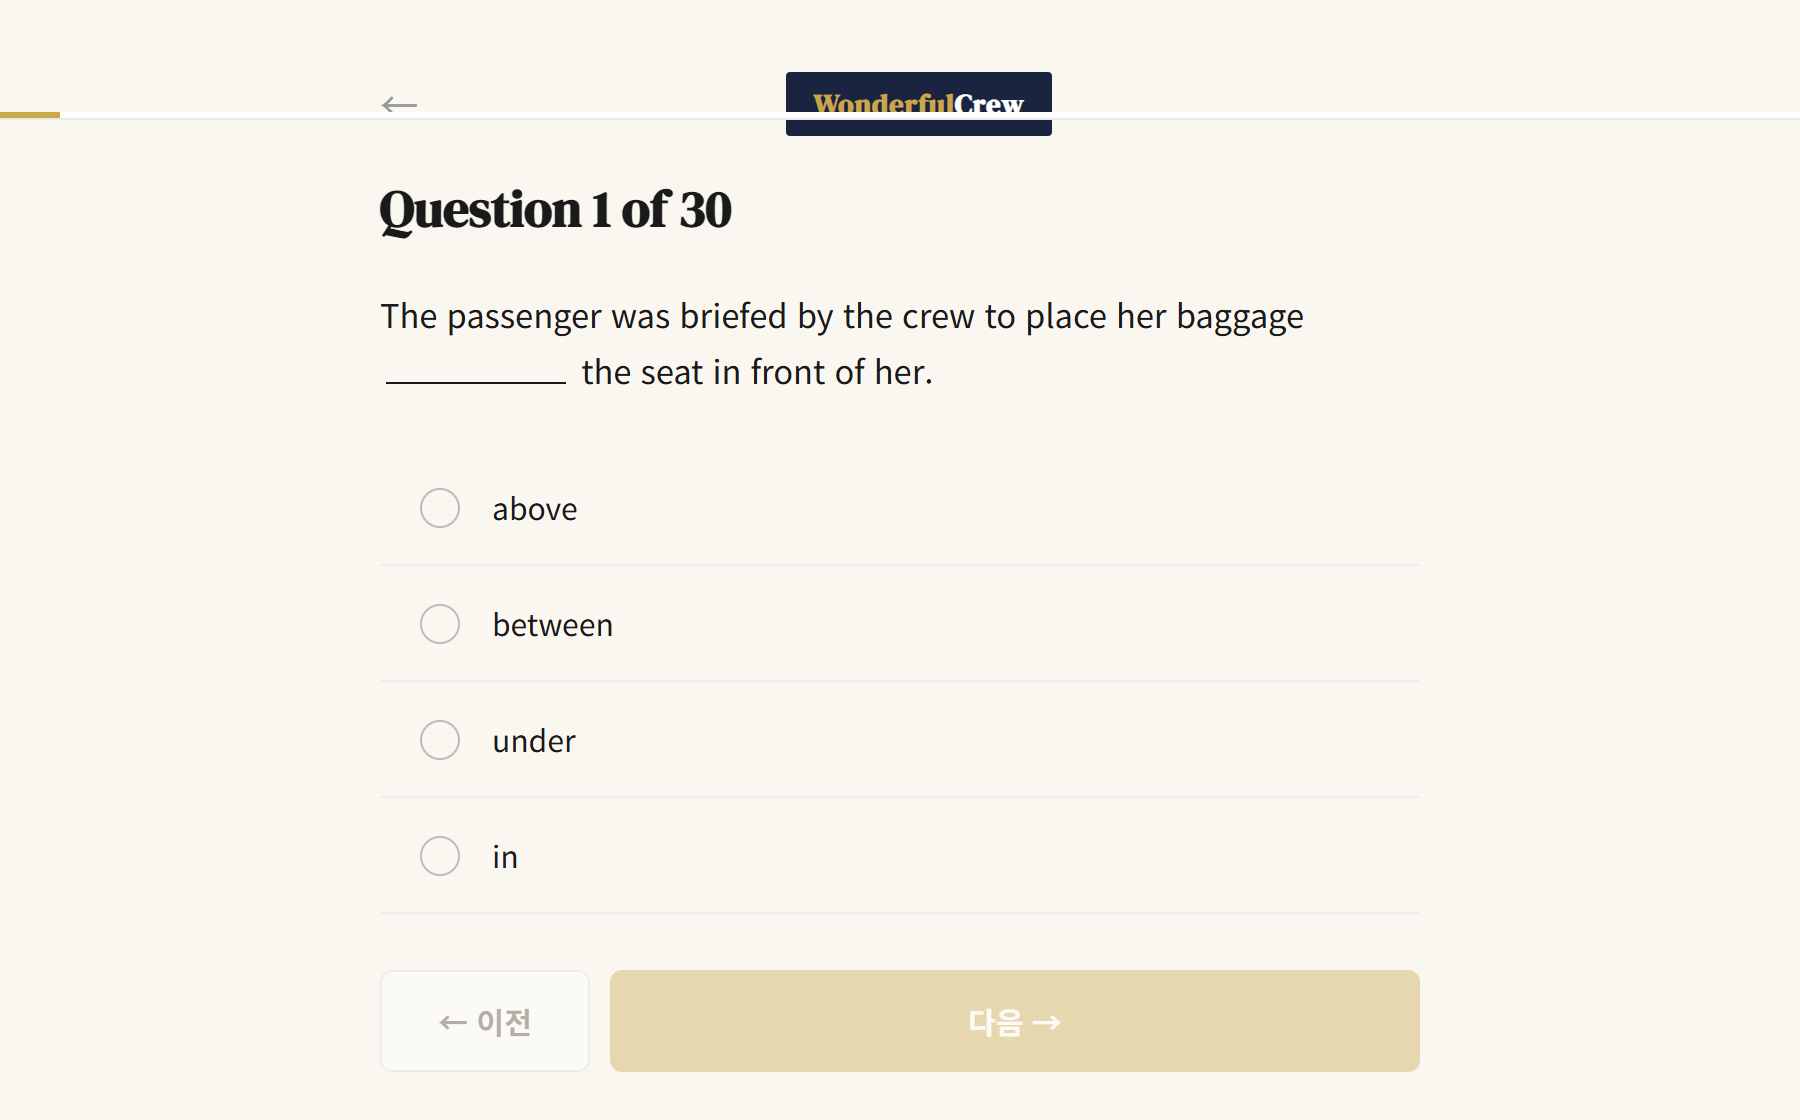
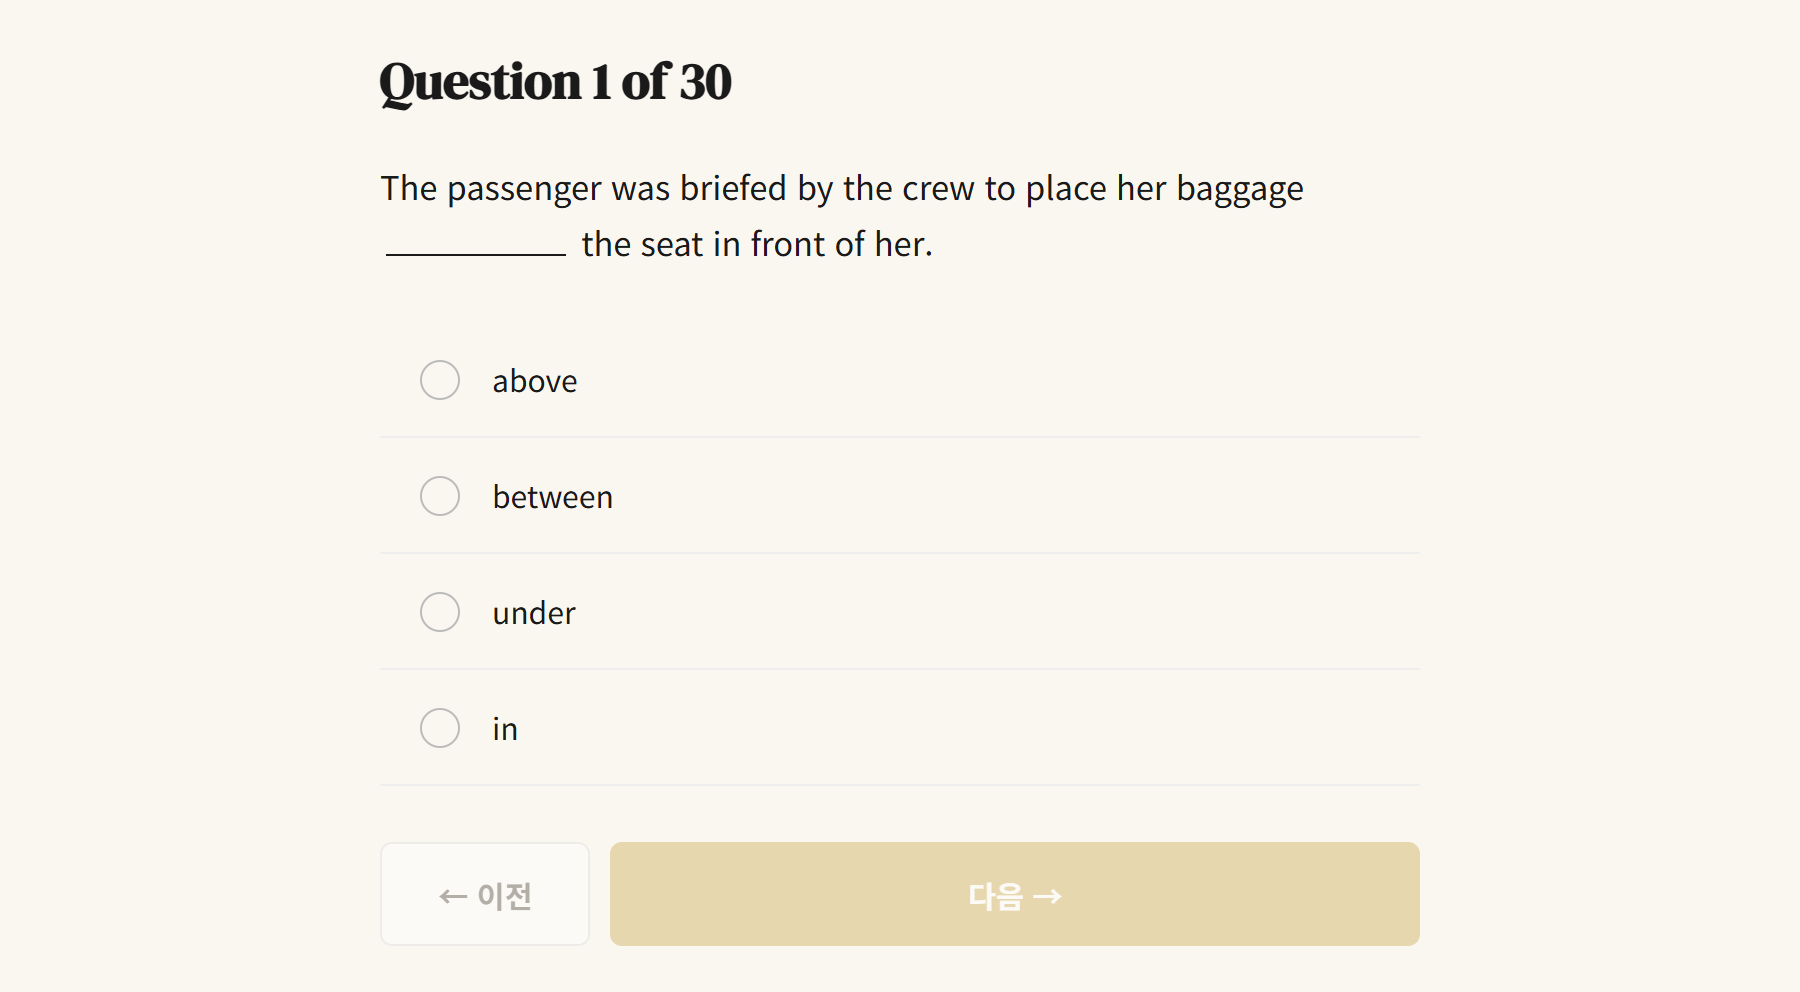
블로그 기능총정리=랜딩 이미지 16개 완전일치(롤플레이 hero·디스커션·워드인트로·파이널 복원) · 랜딩 무료라이브 날짜 9/20(일) 오후7시 · 영어테스트 로고줄 제거 문항화면

diff --git a/blog-drafts.html b/blog-drafts.html
@@ -504,16 +504,19 @@ hr{border:none;border-top:1px dashed var(--line);margin:30px 0;}
 
   <h2>⑤ 롤플레이 · 상황 대응 — 돌발 상황을 미리 겪어요</h2>
   <p>기내 승객 응대와 돌발 상황을 AI 면접관과 실시간으로 연습해요. 원더풀크루에서는 기내·호텔·레스토랑·크루즈 등 응대 상황을 고르고, 영국·미국 등 엑센트를 선택해 실제 외항사 면접 환경처럼 연습합니다.</p>
+  <figure><img src="images/hero-roleplay.jpg" alt="롤플레이 상황 대응"></figure>
   <figure><img src="images/shot-roleplay.png" alt="롤플레이 - 면접관·영어 엑센트·배경 선택 화면"><figcaption>실제 화면 — 면접관·영어 엑센트·응대 배경을 골라 시작해요</figcaption></figure>
 
   <h2>⑥ 그룹 디스커션 — 항공사마다 규칙이 달라요</h2>
   <p>실전 그룹 토론을 항공사별·라운드별 시나리오로 연습해요. 원더풀크루에서는 Emirates 1차(발표)·2차(우선순위 토론)부터 Singapore식 디베이트까지, 실제 기출 형식을 그대로 준비합니다.</p>
+  <figure><img src="images/Gemini_Generated_Image_dqt50bdqt50bdqt5.png" alt="그룹 디스커션"></figure>
   <figure><img src="images/shot-disc1.png" alt="1차 디스커션 - 발표 주제와 핵심 포인트"><figcaption>실제 화면 — 1차 디스커션: 발표 주제와 핵심 포인트</figcaption></figure>
   <figure><img src="images/shot-disc2.png" alt="2차 디스커션 - 실전 우선순위 토론 시나리오"><figcaption>실제 화면 — 2차 디스커션: 실전 우선순위 토론 시나리오</figcaption></figure>
   <figure><img src="images/shot-debate.png" alt="싱가포르항공 디베이트 - 주제와 입장 선택"><figcaption>실제 화면 — 싱가포르식 1:1 디베이트: 주제·입장 선택</figcaption></figure>
 
   <h2>⑦ 워드슈팅 — 멈추지 않는 순발력</h2>
   <p>랜덤으로 주어지는 단어나 문장을 받아 60초 안에 즉석에서 영어로 발표해요. 원더풀크루에서는 Qatar처럼 순발력을 보는 면접에 대비하는 즉흥 스피치를, 타이머가 도는 동안 멈추지 않고 말하는 훈련으로 키웁니다.</p>
+  <figure><img src="images/shot-wordshooting-intro.png" alt="워드슈팅 시작 전 - 모드 선택과 60초 타이머"><figcaption>실제 화면 — 시작 전: Word/Sentence 모드와 60초 타이머</figcaption></figure>
   <figure><img src="images/shot-wordshooting.png" alt="워드슈팅 - 키워드 받고 즉석 영어 발표 화면"><figcaption>실제 화면 — 키워드가 뜨면 60초 안에 바로 말해요</figcaption></figure>
 
   <h2>⑧ 영어 테스트 — 내 수준을 숫자로</h2>
@@ -522,6 +525,7 @@ hr{border:none;border-top:1px dashed var(--line);margin:30px 0;}
 
   <h2>⑨ 파이널 · 종합 분석 — 마지막 1:1까지</h2>
   <p>실전 직전 최종 점검과 종합 실력 분석 리포트, 그리고 1:1 코치 피드백까지. 원더풀크루에서는 그동안의 연습 데이터를 모아 미소·답변·태도를 항목별로 확인하고, 마지막은 코치 피드백으로 실전 준비를 완성합니다.</p>
+  <figure><img src="images/Gemini_Generated_Image_9vrkb49vrkb49vrk.png" alt="파이널 종합 분석"></figure>
   <figure><img src="images/shot-final.png" alt="파이널 - 면접관·항공사·영어 엑센트 선택 화면"><figcaption>실제 화면 — 항공사·면접관·엑센트를 골라 실전처럼 마무리해요</figcaption></figure>
 
   <hr>

diff --git a/landing.html b/landing.html
@@ -316,6 +316,7 @@ footer b{color:#fff;}
 <!-- 무료 라이브 신청 폼 -->
 <section class="cta" id="apply">
   <h2>🎬 무료 라이브 수업 신청</h2>
+  <div style="display:inline-block;margin:2px auto 14px;background:linear-gradient(135deg,var(--gold-l),var(--gold));color:#fff;font-family:'Noto Sans KR',sans-serif;font-weight:800;font-size:1.05rem;padding:11px 24px;border-radius:26px;box-shadow:0 10px 24px -12px rgba(201,168,76,0.7);">📅 9월 20일 (일) 오후 7시 · 온라인 무료 라이브</div>
   <p>아래 정보를 남기면 <b>카카오톡 오픈채팅방</b>으로 안내해 드려요.<br>라이브 수업에서 원더풀크루의 모든 기능을 직접 보여드립니다.</p>
   <form id="applyForm" class="apply-form">
     <input id="sf-name" type="text" placeholder="이름" maxlength="40" required>
